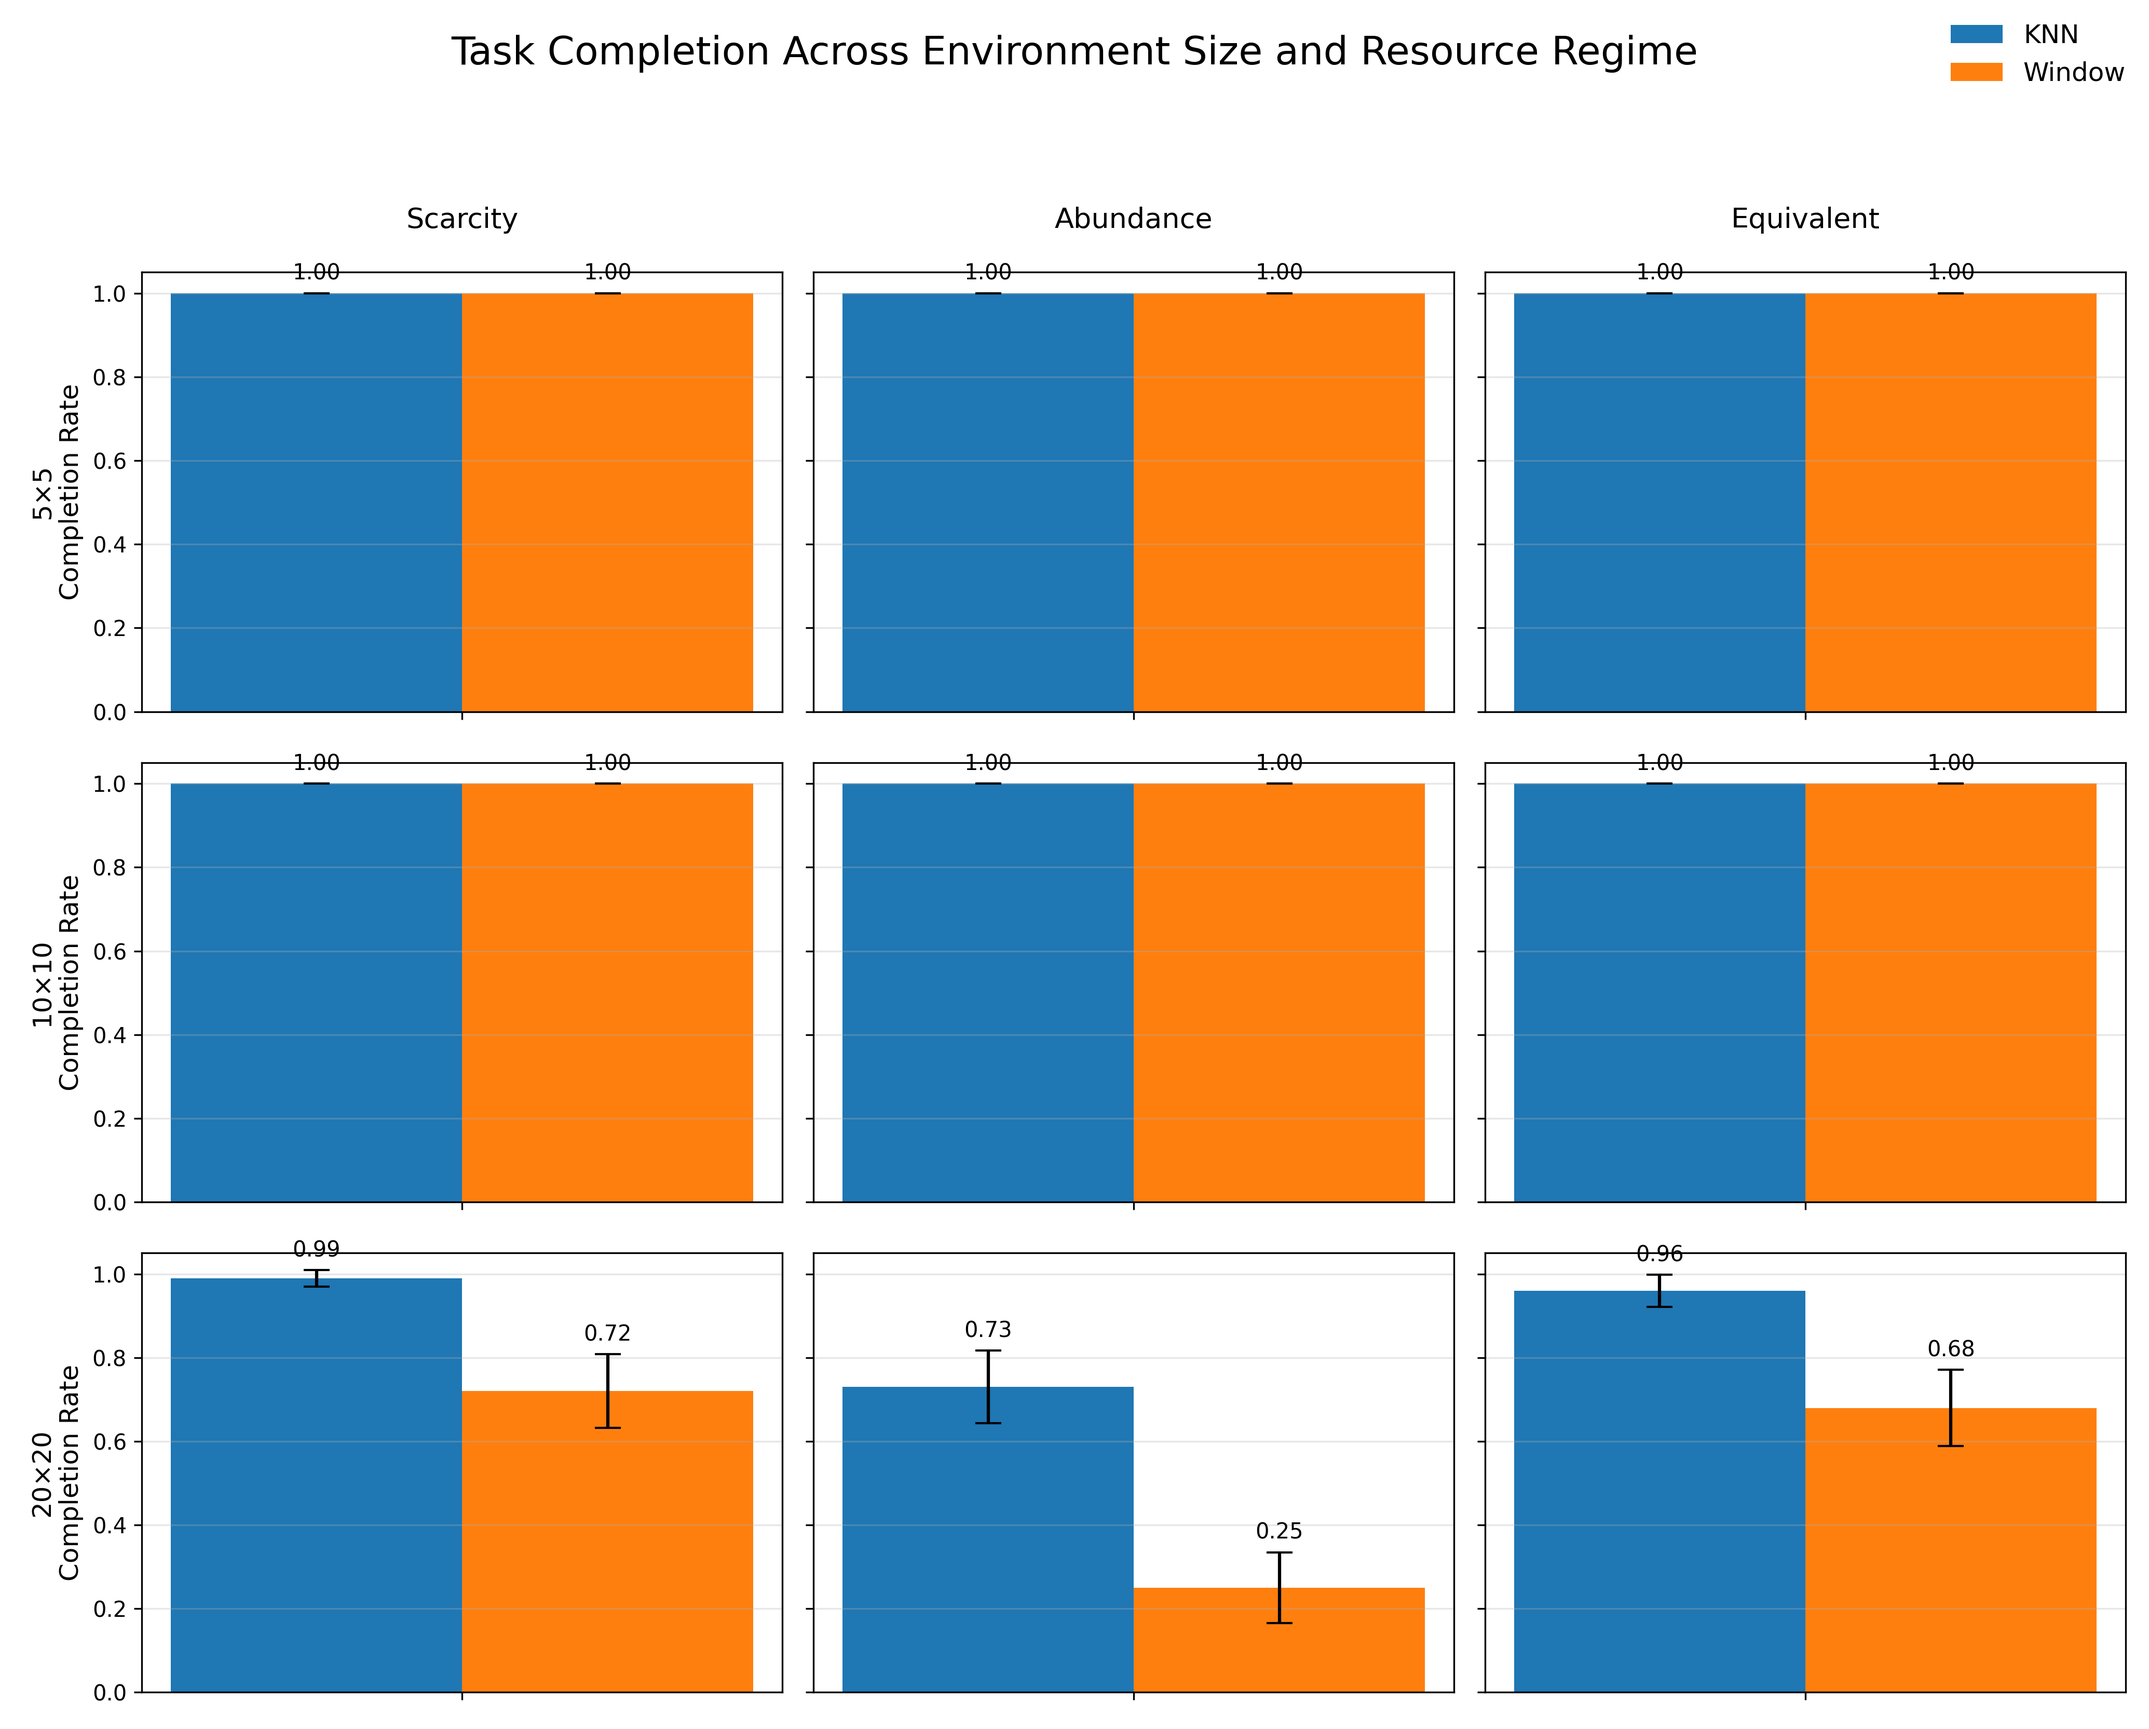
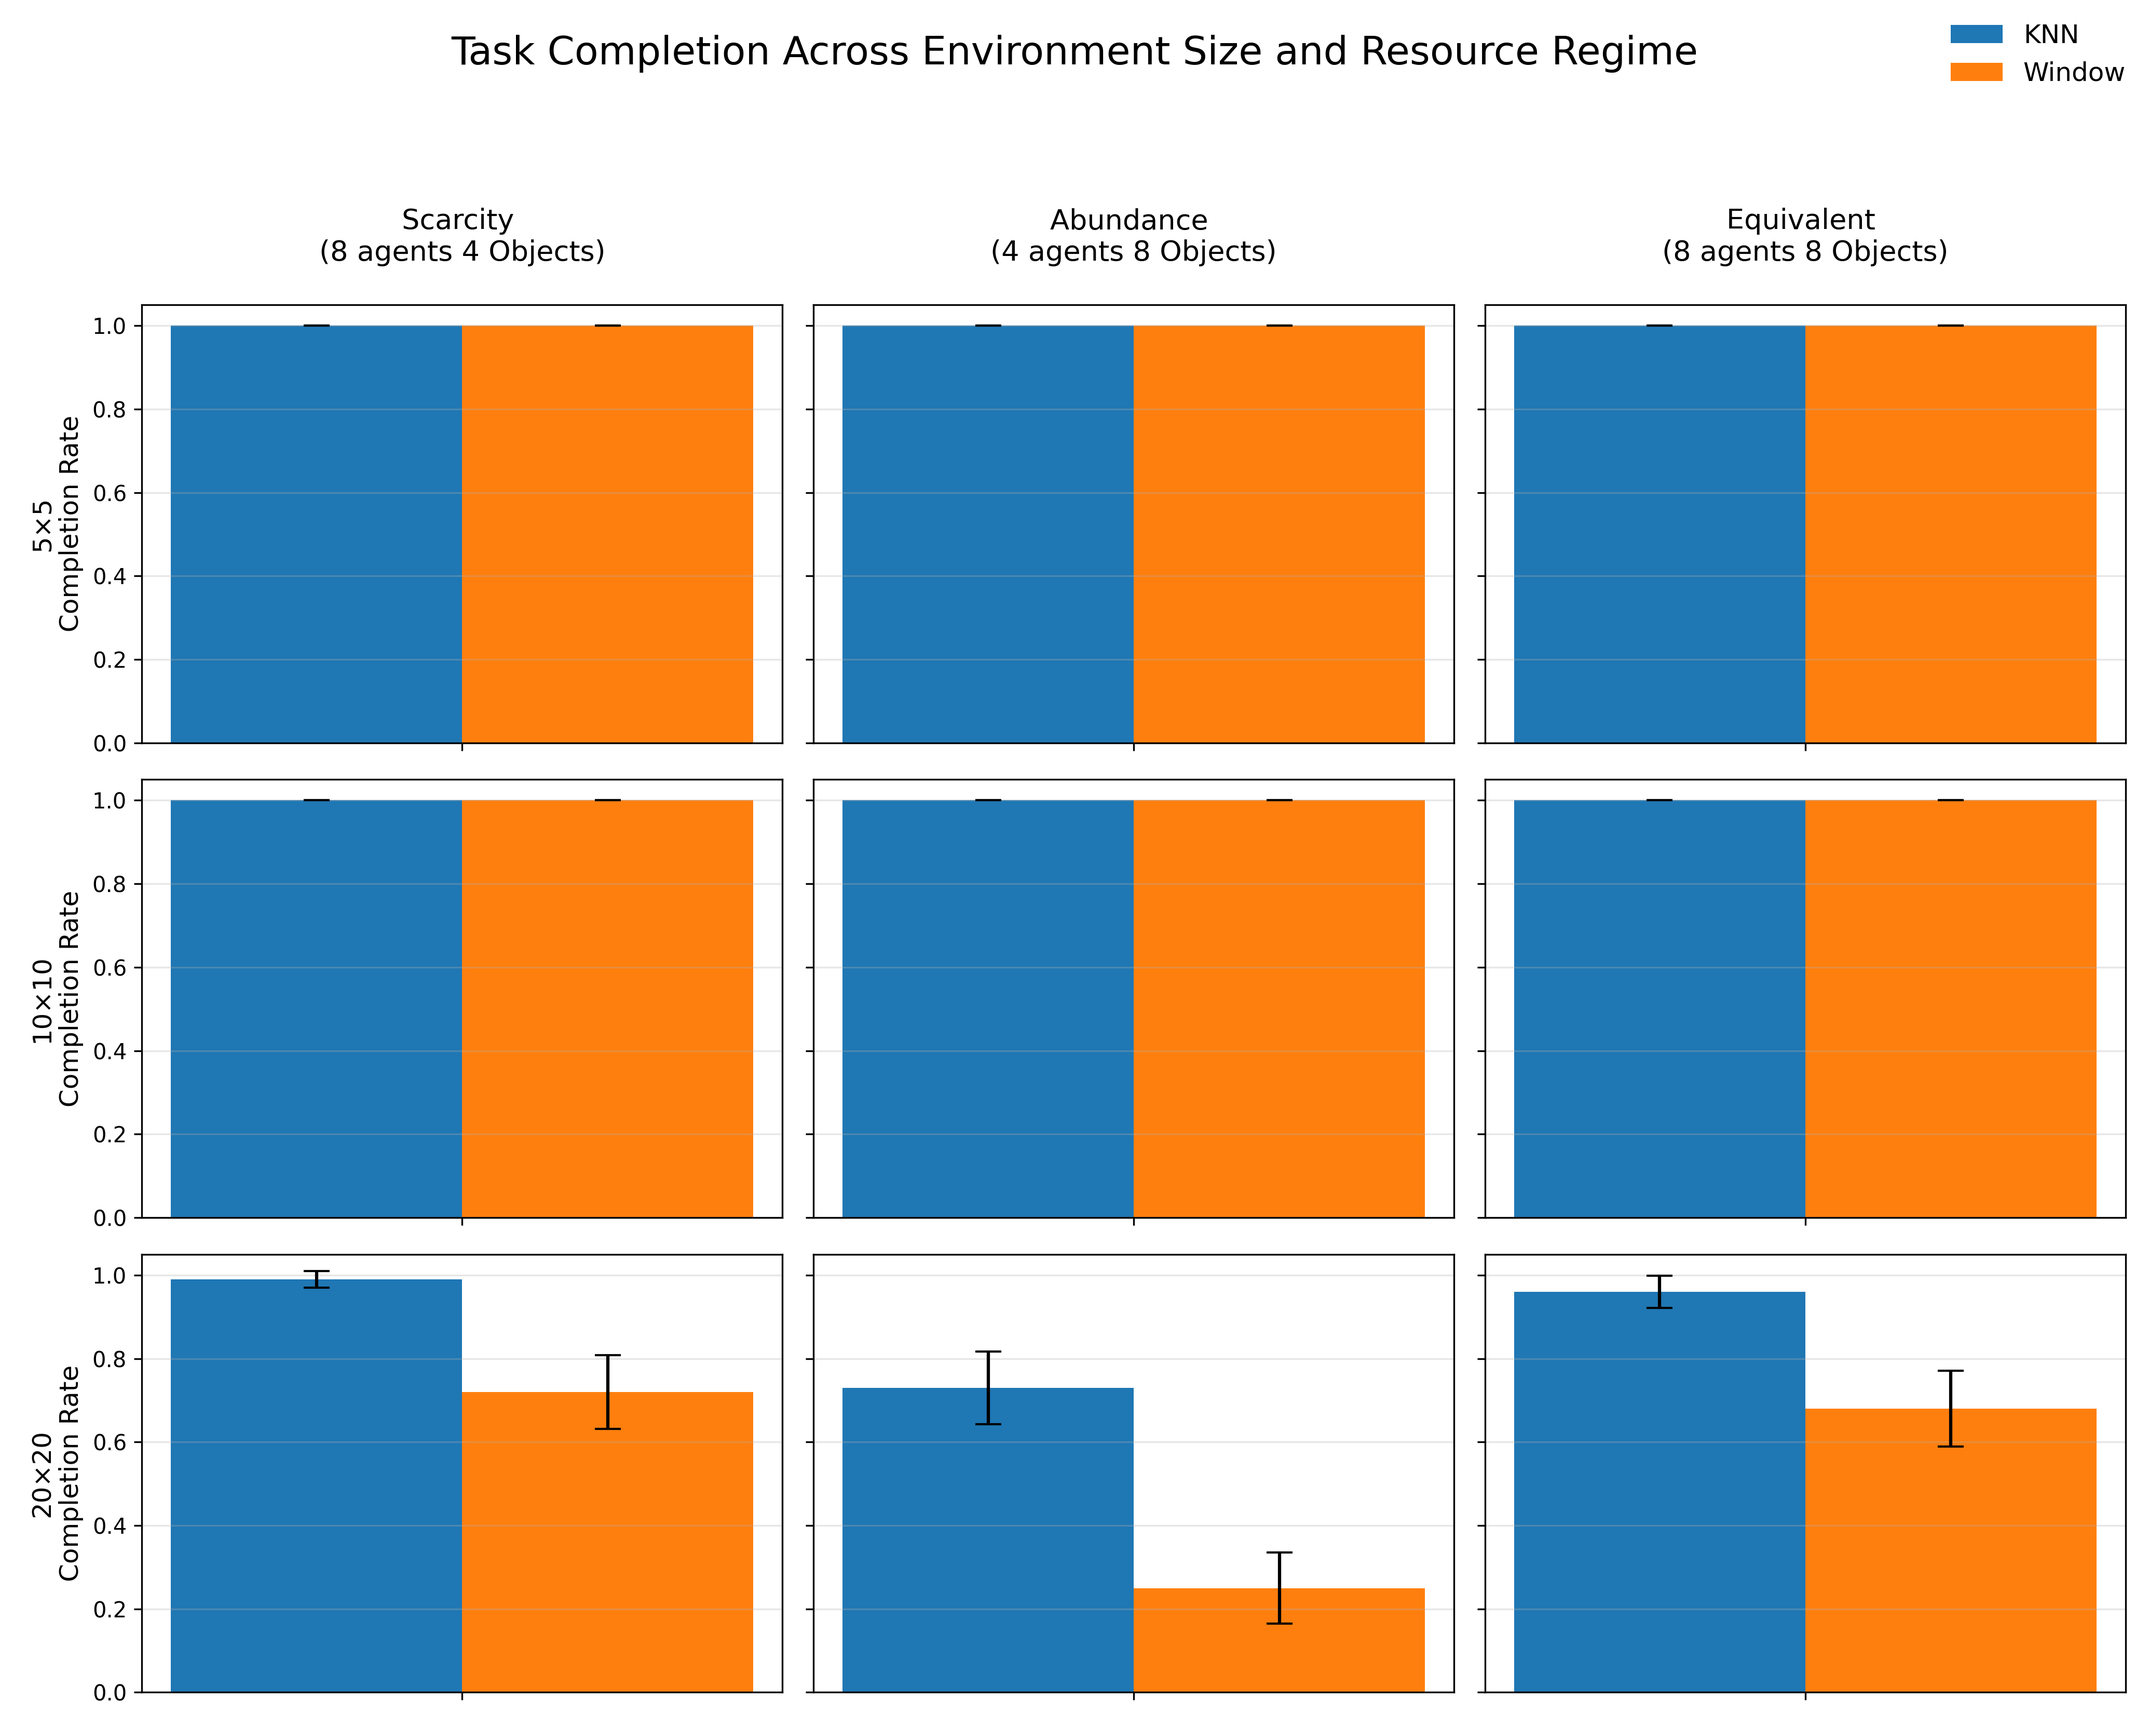
updated plots

diff --git a/test.py b/test.py
@@ -16,9 +16,9 @@ DPI = 300
 ENV_SIZES = [5, 10, 20]
 
 REGIMES = {
-    "Scarcity\n":  (8, 4),
-    "Abundance\n": (4, 8),
-    "Equivalent\n":   (8, 8),
+    "Scarcity \n(8 agents 4 Objects)\n":  (8, 4),
+    "Abundance \n(4 agents 8 Objects)\n": (4, 8),
+    "Equivalent \n(8 agents 8 Objects)\n":   (8, 8),
 }
 
 # ============================================================
@@ -122,14 +122,14 @@ def plot_factor_grid(
 
     def annotate_bar(ax, xpos, val, err):
         pad = 0.02 * (ylim[1] - ylim[0])
-        label = f"{val:.2f}" if ylim[1] <= 1.1 else f"{val:.1f}"
-        ax.text(
-            xpos, val + err + pad,
-            label,
-            ha="center",
-            va="bottom",
-            fontsize=10
-        )
+        #label = f"{val:.2f}" if ylim[1] <= 1.1 else f"{val:.1f}"
+        #ax.text(
+        #    xpos, val + err + pad,
+        #    label,
+        #    ha="center",
+        #    va="bottom",
+        #    fontsize=10
+        #)
 
     for i in range(rows):
         for j in range(cols):
